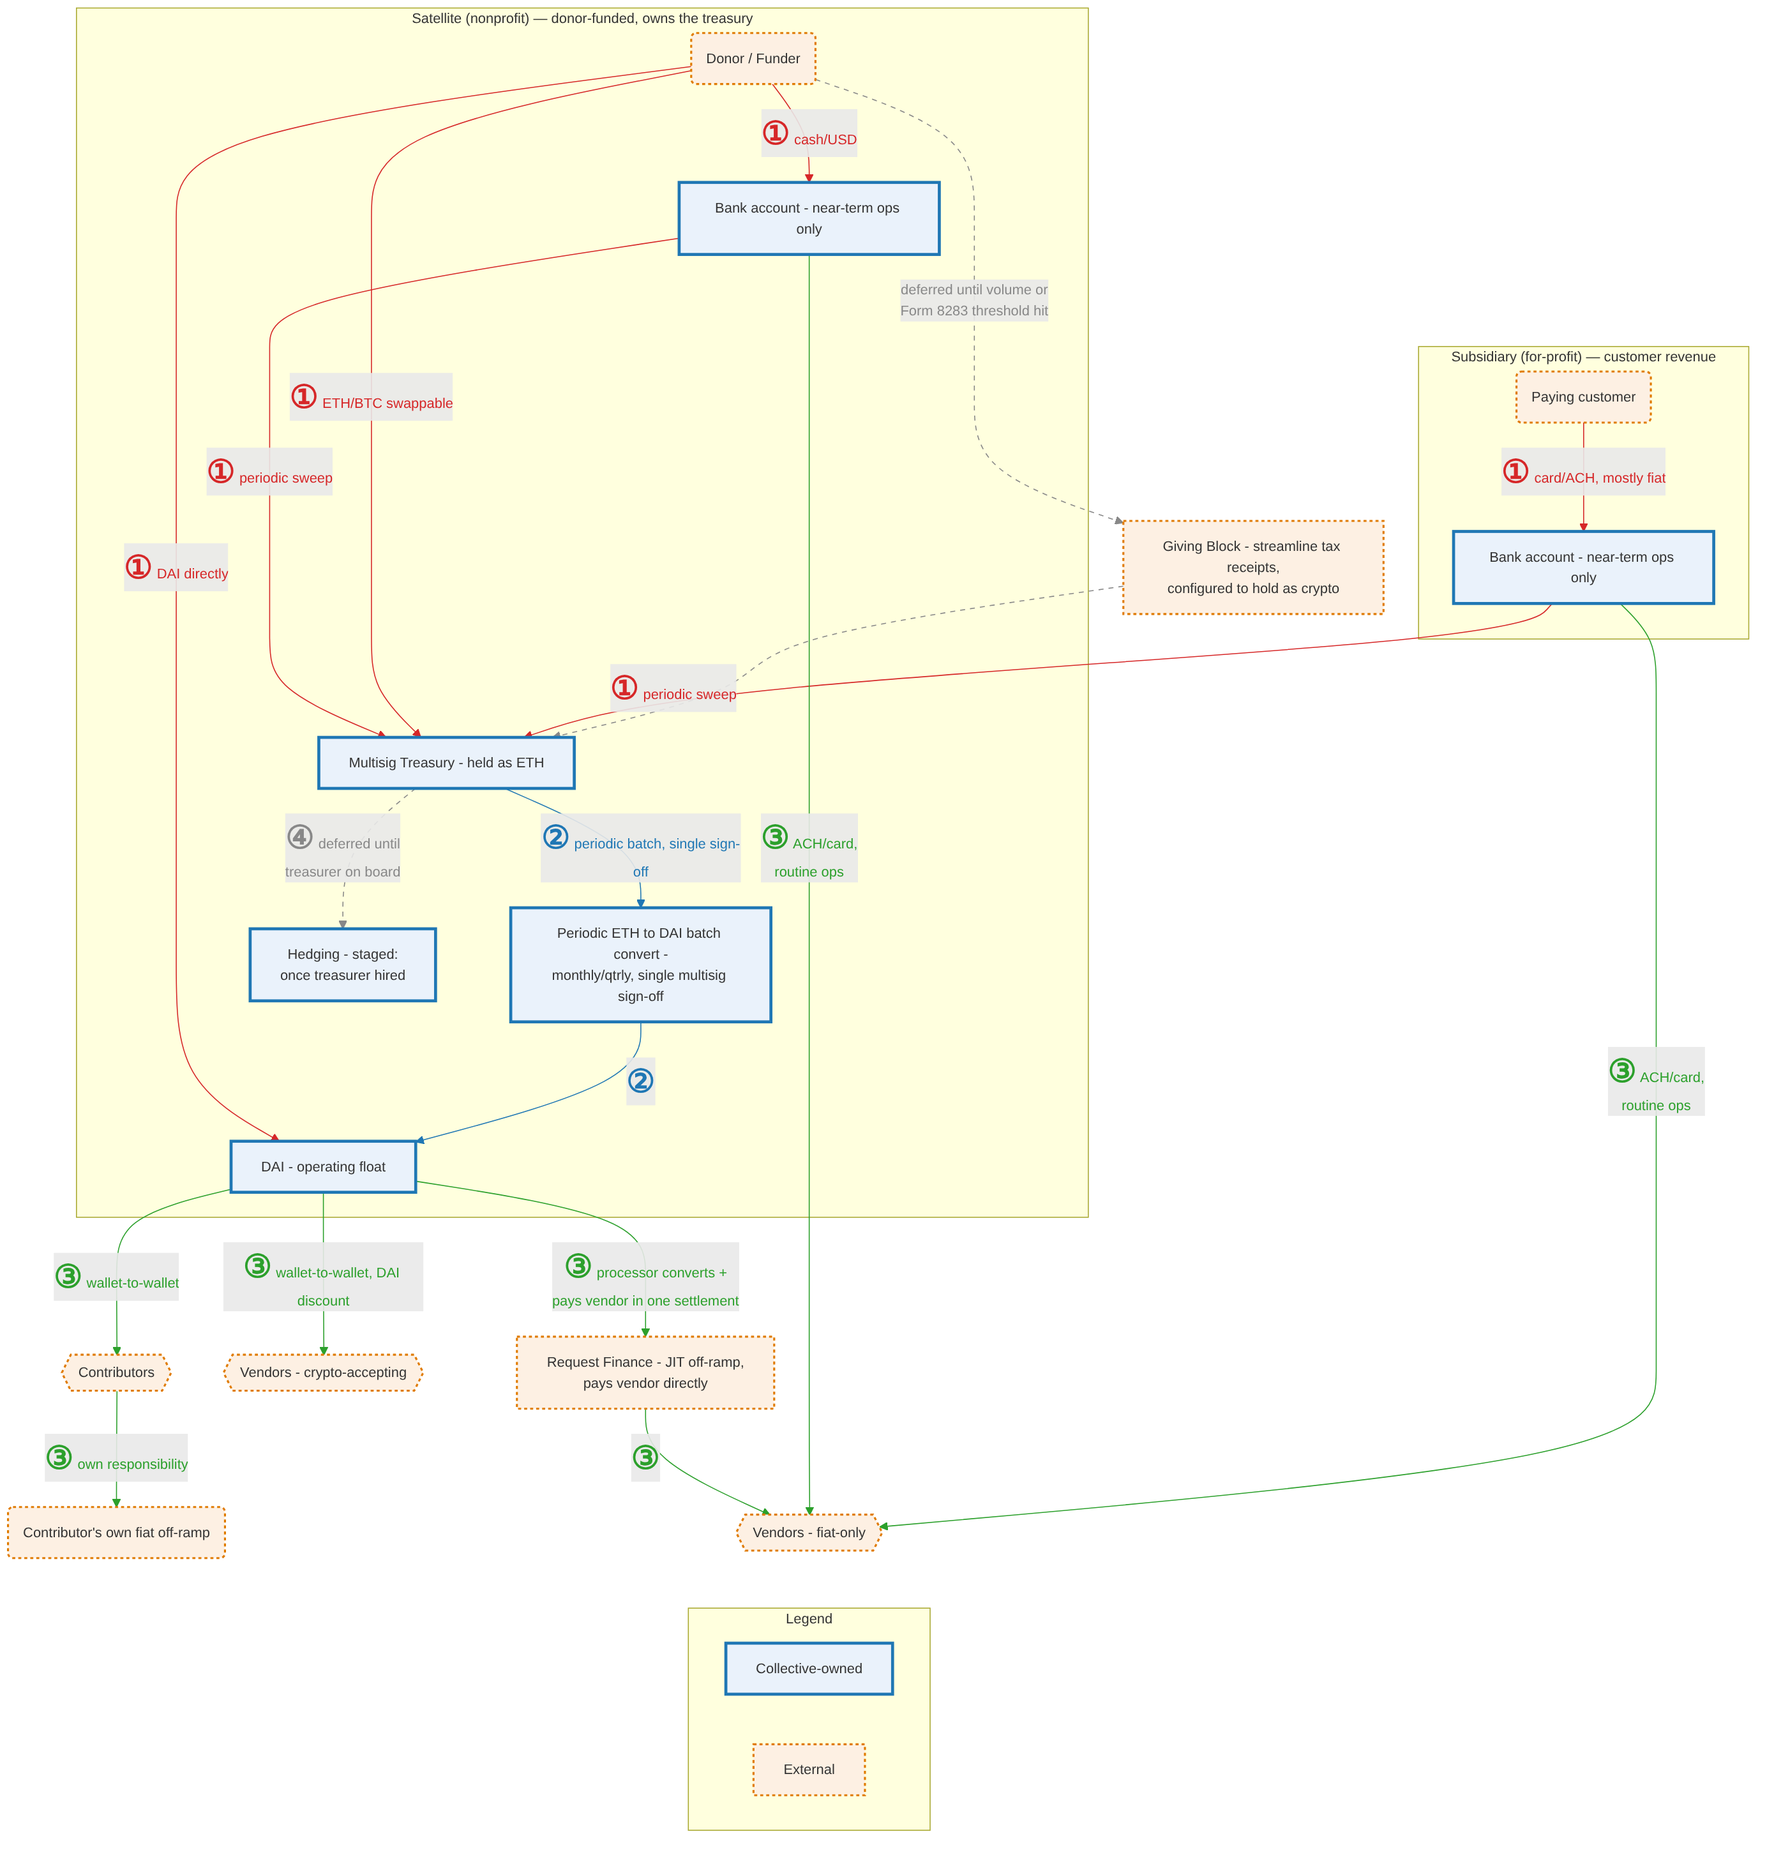
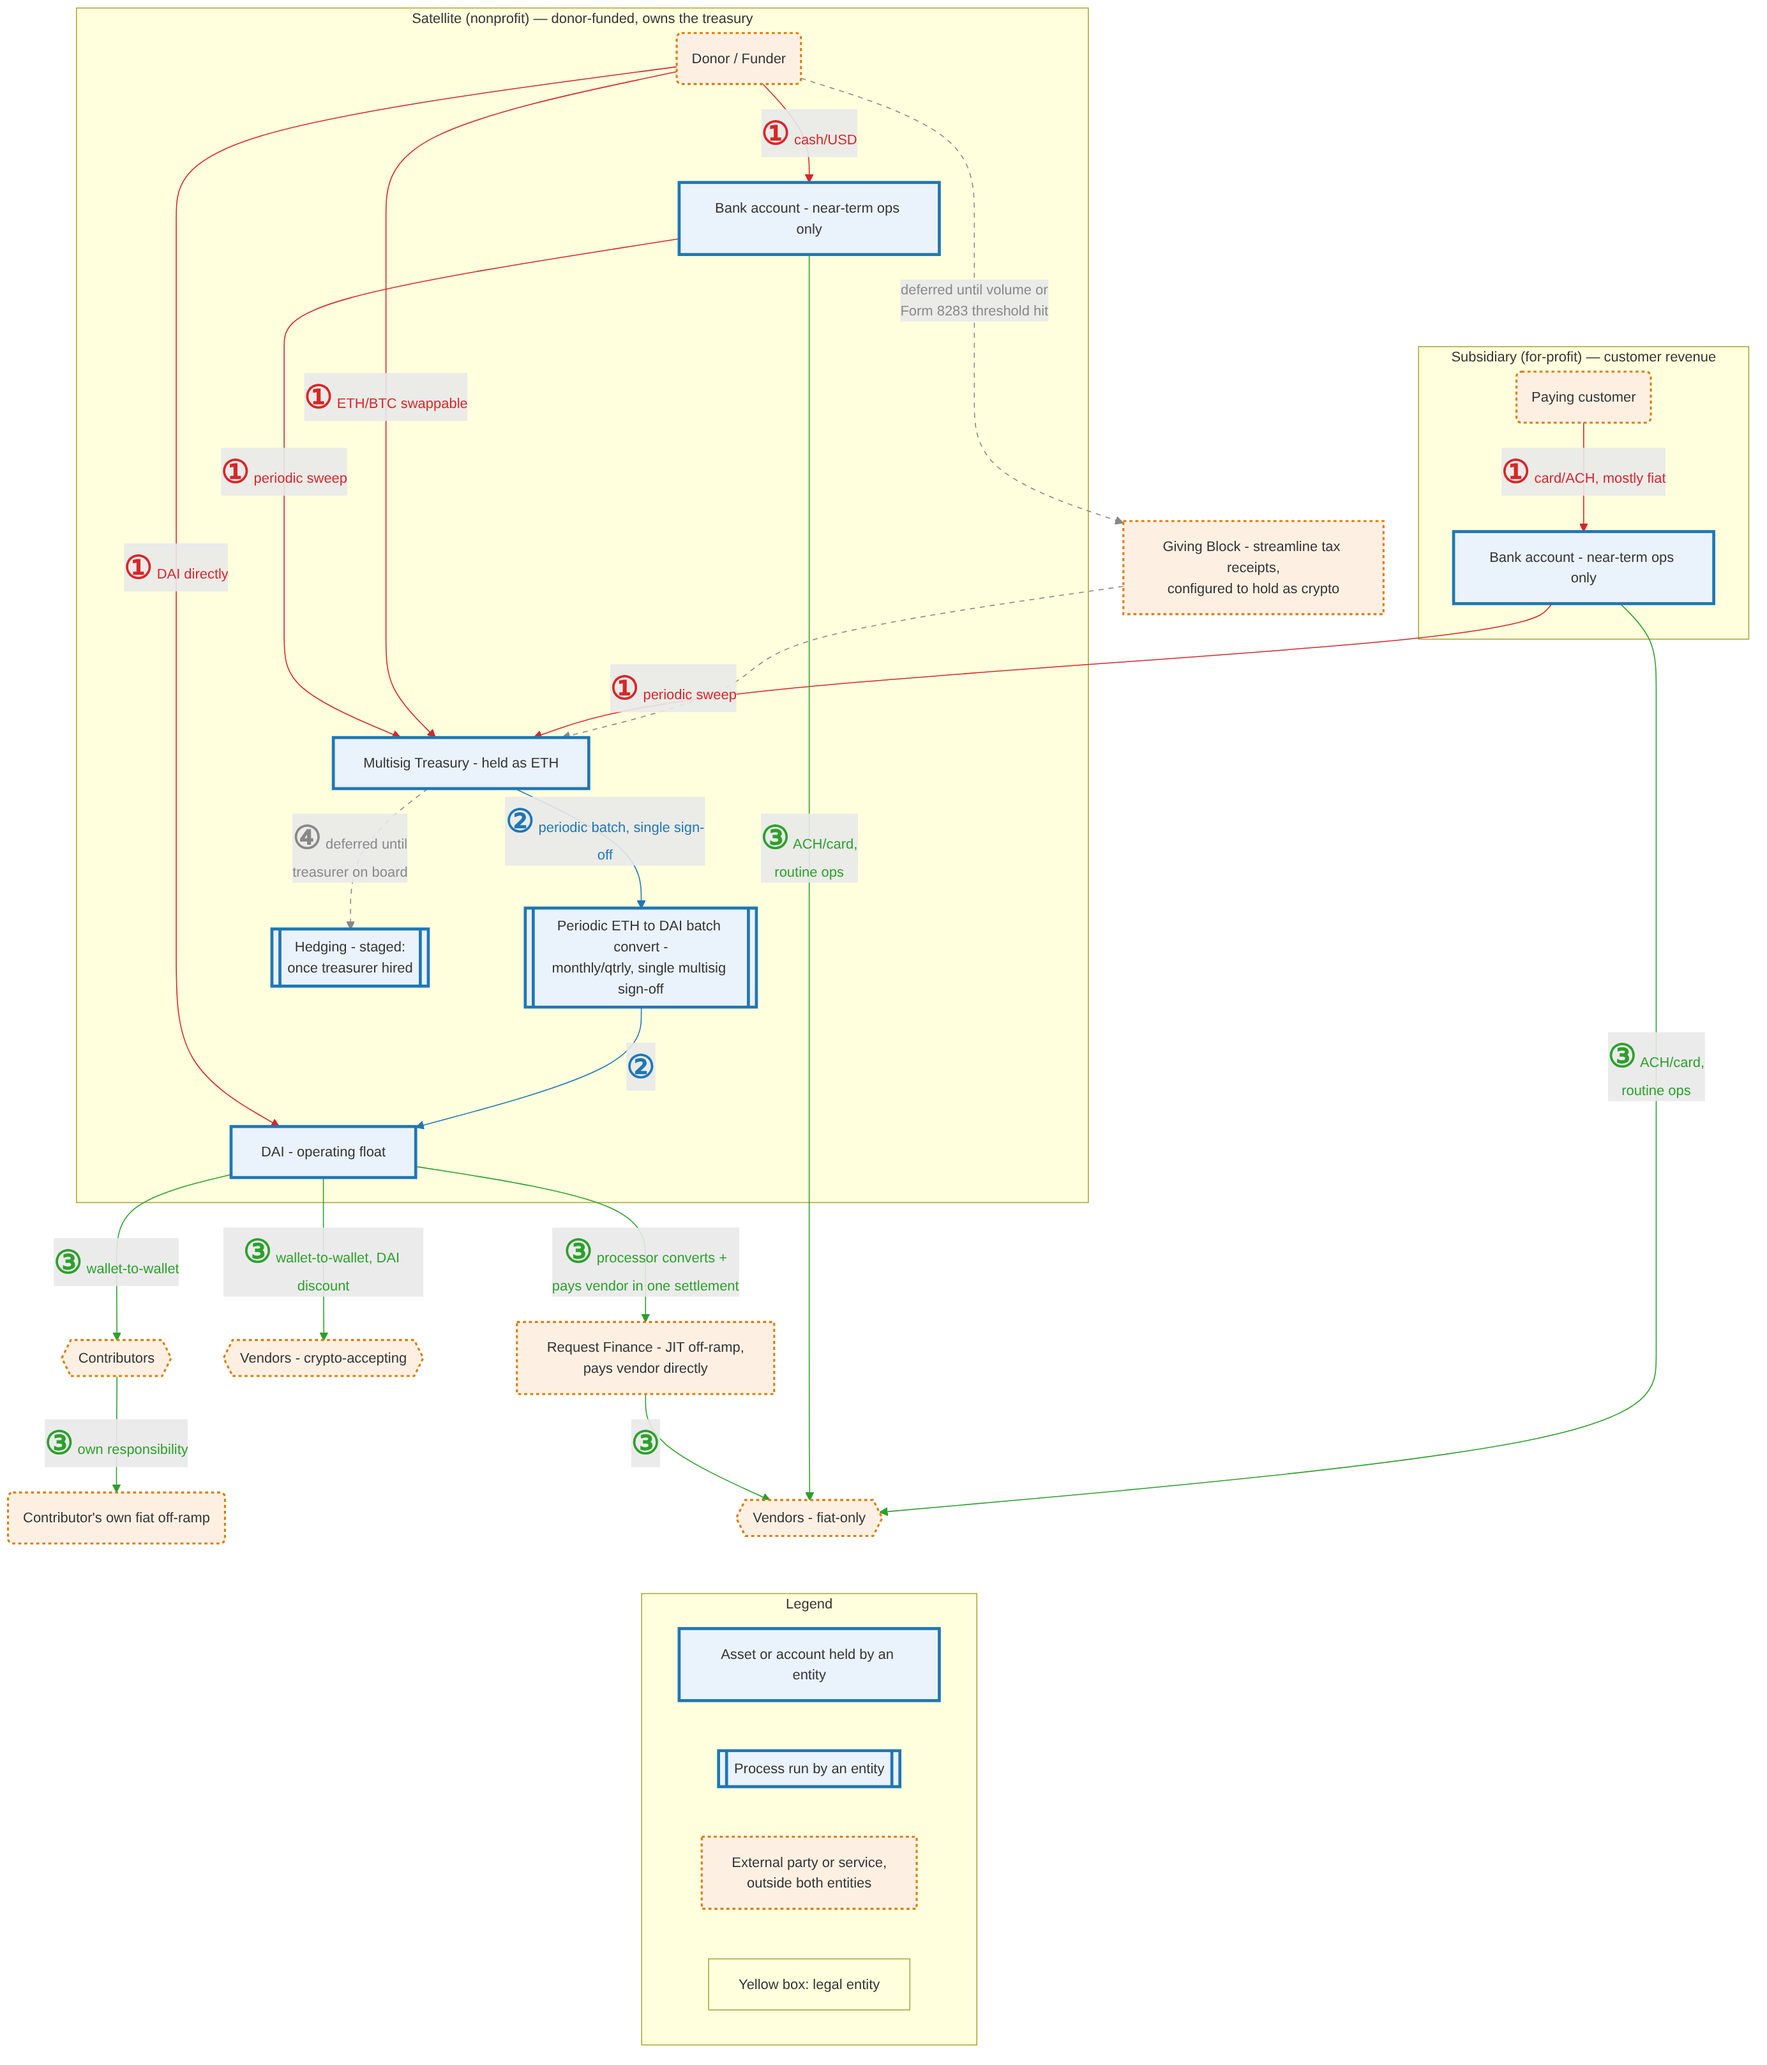
docs: add legend for entities, assets, processes, and external parties to fund-flows
Give the batch convert and hedging a double-bar shape as processes, separate from
blue assets and accounts, define external as outside both legal entities, add the
yellow entity box to the legend, and update the "Reading the diagram" prose to match.

diff --git a/governance/commons-hub-pattern.md b/governance/commons-hub-pattern.md
@@ -825,7 +825,9 @@ $\color{blue}{\text{blue}}$ = converting ETH to DAI (②) ·
 $\color{green}{\text{green}}$ = money out (③) ·
 $\color{gray}{\text{gray dashed}}$ = deferred or pass-through
 (④ and the dotted lines).
-Boxes are blue if the collective owns them and dashed orange if they are external.
+Blue boxes are assets or accounts held by the Satellite or its subsidiary, and blue
+double-barred boxes are processes they run. Dashed orange boxes are external parties,
+outside both entities.
 
 *Money in (①).* Donor gifts reach the Satellite and customer revenue reaches the
 subsidiary. A donor can send cash to the Satellite's bank account, DAI directly to the
